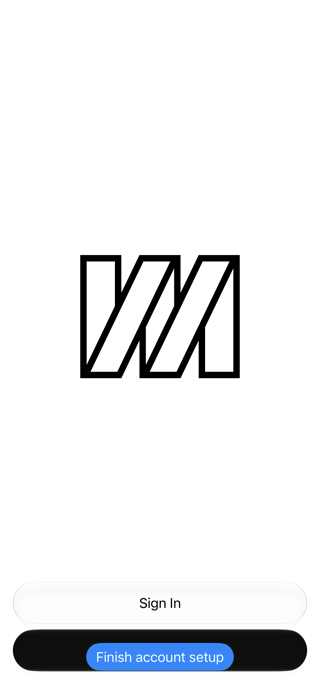
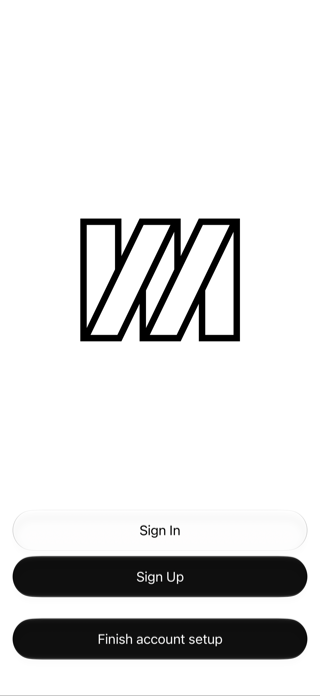
fix: separate account setup resume button from welcome actions

Changed region(s): [[0.0312, 0.7565, 0.9688, 0.9683], [0.25, 0.3026, 0.75, 0.5447], [0.0, 0.9986, 1.0, 1.0]]

diff --git a/whitenoise-ios/RootView.swift b/whitenoise-ios/RootView.swift
@@ -32,44 +32,16 @@ struct RootView: View {
             phase: appState.phase,
             activeAccountRef: appState.activeAccountRef
         )
-        Group {
-            if let setup = appState.pendingAccountSetup,
-               appState.isAccountSetupPresented,
-               appState.phaseOwnsLiveRuntime {
-                NavigationStack {
-                    AccountSetupView(model: setup)
-                }
-                .id(setup.accountID)
-                .task(id: "\(appState.runtimeGeneration):\(appState.canUseRuntimeForLocalForegroundWork)") {
-                    if appState.canUseRuntimeForLocalForegroundWork {
-                        await appState.connectAccountSetup()
-                    } else {
-                        setup.suspend()
-                    }
-                }
-                .onDisappear { setup.suspend() }
-            } else {
-                switch presentation {
-                case .bootstrap:
-                    BootstrapSplash()
-                case .onboarding:
-                    NavigationStack {
-                        WelcomeView()
-                    }
-                case .profileSelection:
-                    SignedOutProfilesView()
-                case .main:
-                    MainView()
-                case .failed(let message):
-                    BootstrapFailureView(message: message)
-                }
-            }
-        }
-        .safeAreaInset(edge: .bottom) {
+        // Reserve layout space so navigation content cannot overlap the resume button.
+        VStack(spacing: 0) {
+            rootContent(presentation)
+                .frame(maxWidth: .infinity, maxHeight: .infinity)
+
             if appState.pendingAccountSetup != nil, !appState.isAccountSetupPresented {
-                Button("Finish account setup") { appState.isAccountSetupPresented = true }
-                    .buttonStyle(.borderedProminent)
-                    .padding()
+                WNButton(title: "Finish account setup") { appState.isAccountSetupPresented = true }
+                    .padding(.horizontal)
+                    .padding(.vertical, 12)
+                    .background(.background)
             }
         }
         .animation(.smooth(duration: 0.25), value: presentation)
@@ -86,6 +58,41 @@ struct RootView: View {
                     appState.pendingWipeReport = nil
                 }
                 .appAppearance()
+            }
+        }
+    }
+
+    @ViewBuilder
+    private func rootContent(_ presentation: RootPresentation) -> some View {
+        if let setup = appState.pendingAccountSetup,
+           appState.isAccountSetupPresented,
+           appState.phaseOwnsLiveRuntime {
+            NavigationStack {
+                AccountSetupView(model: setup)
+            }
+            .id(setup.accountID)
+            .task(id: "\(appState.runtimeGeneration):\(appState.canUseRuntimeForLocalForegroundWork)") {
+                if appState.canUseRuntimeForLocalForegroundWork {
+                    await appState.connectAccountSetup()
+                } else {
+                    setup.suspend()
+                }
+            }
+            .onDisappear { setup.suspend() }
+        } else {
+            switch presentation {
+            case .bootstrap:
+                BootstrapSplash()
+            case .onboarding:
+                NavigationStack {
+                    WelcomeView()
+                }
+            case .profileSelection:
+                SignedOutProfilesView()
+            case .main:
+                MainView()
+            case .failed(let message):
+                BootstrapFailureView(message: message)
             }
         }
     }

diff --git a/docs/screenshots/onboarding/README.md b/docs/screenshots/onboarding/README.md
@@ -5,8 +5,8 @@ on an iPhone 17 Pro simulator. The sheets use their real presentation containers
 Screens are scrolled where needed to keep the active decision visible.
 No real account data or live relay publication was used for these captures.
 
-The UI source is the onboarding checkpoint `6007d98` plus the progress-card
-correction in this PR. Temporary fixture injection and capture code are excluded
+The UI source is the onboarding checkpoint `6007d98` plus the presentation
+refinements in this PR. Temporary fixture injection and capture code are excluded
 from the app and this PR. The profile values are
 examples. These images document presentation, not end-to-end network validation.
 
@@ -16,8 +16,10 @@ Spanish, French, Italian, Portuguese, Russian, Turkish, Simplified Chinese, and
 Traditional Chinese. The catalog tests also check translated values and format
 placeholders across the shared catalog.
 
-Final validation: 1,694 tests in 212 suites passed on the Production scheme
-with the iPhone 17 Pro simulator. SwiftLint 0.63.2 passed in strict mode with
+Validation: 1,694 tests in 212 suites passed on the Production scheme
+with the iPhone 17 Pro simulator before the resume-button layout refinement.
+That follow-up passed the 15 SignOutAndWipeTests and simulator captures in
+light mode, dark mode, and accessibility text size 3. SwiftLint 0.63.2 passed in strict mode with
 zero violations across 357 files. Signed-device/live-relay and accessibility
 manual checks remain pending.
 
@@ -27,7 +29,7 @@ manual checks remain pending.
 - [Optional follows skipped](follows-skipped.png) — Missing or unreadable follows are skipped without publishing a replacement list.
 - [KeyPackage publication](keypackage-publishing.png) — Initial publication runs after the single-device acknowledgment.
 - [Ready to open Chats](ready.png) — MDK reports ready; optional skipped steps remain visibly distinct from passed checks.
-- [Setup deferred](later.png) — Later returns to the existing app route with a Finish account setup action.
+- [Setup deferred](later.png) — Later returns to the existing app route with a full-width Finish account setup button in its own row below the screen content.
 
 ## Optional profile setup
 
